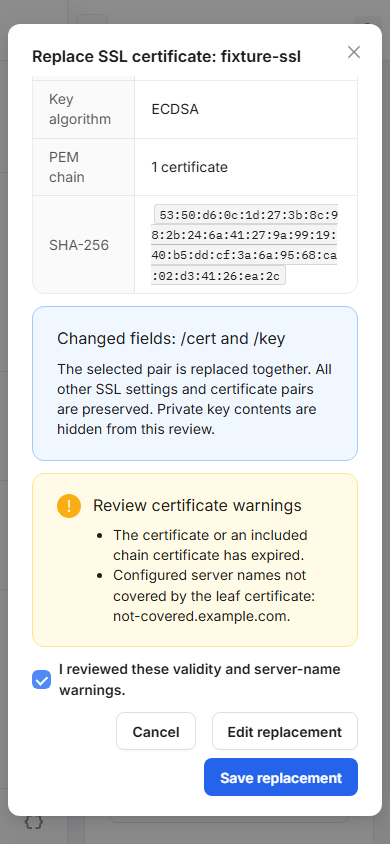
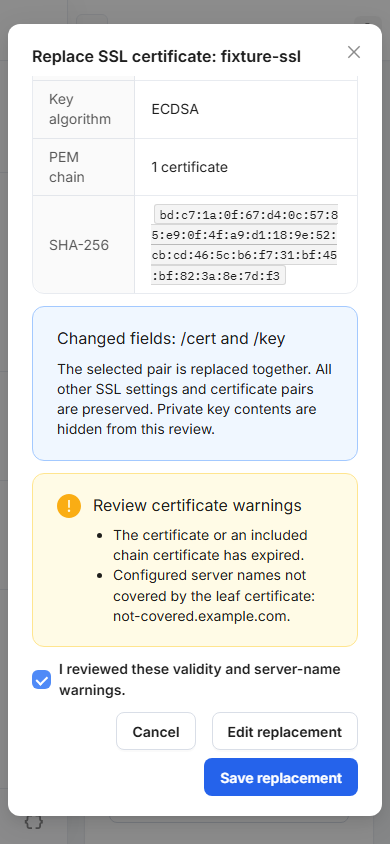
docs(ssl): record final integrated replacement validation

Changed region(s): [[0.4, 0.2464, 0.8615, 0.3389]]

diff --git a/docs/en/ssl-replacement.md b/docs/en/ssl-replacement.md
@@ -42,3 +42,19 @@ helper opens (production chunk approximately 194 kB, 47 kB gzip).
 
 ![Certificate comparison](./assets/screenshots/ssl-replacement-review.png)
 ![Phone review and warnings](./assets/screenshots/ssl-replacement-narrow.png)
+
+## Validation
+
+The final integration onto master `9aa9229a` passed frozen offline dependency
+installation, full ESLint, `tsc -b --pretty false`, and the production build.
+The SSL replacement, SSL tag keyboard, SSL/Upstream validation, draft navigation,
+Change sets core/UI, and history write-contract suites passed **94/94** against
+an isolated production preview. All Admin API responses were intercepted fixtures;
+the certificates and RSA/EC private keys were generated by the tests.
+
+The 13 replacement cases cover PKCS#8/PKCS#1/SEC1 key possession, additional pairs,
+wrong or masked keys, exact-baseline conflicts, failed or stale read-back without
+automatic retry, stale asynchronous inspection, local file size limits, unsaved
+form preservation and navigation discard. The captures above were refreshed from
+that build and reviewed at desktop and 390px. These results do not claim a live
+gateway TLS handshake or completion of service-backed CI.
